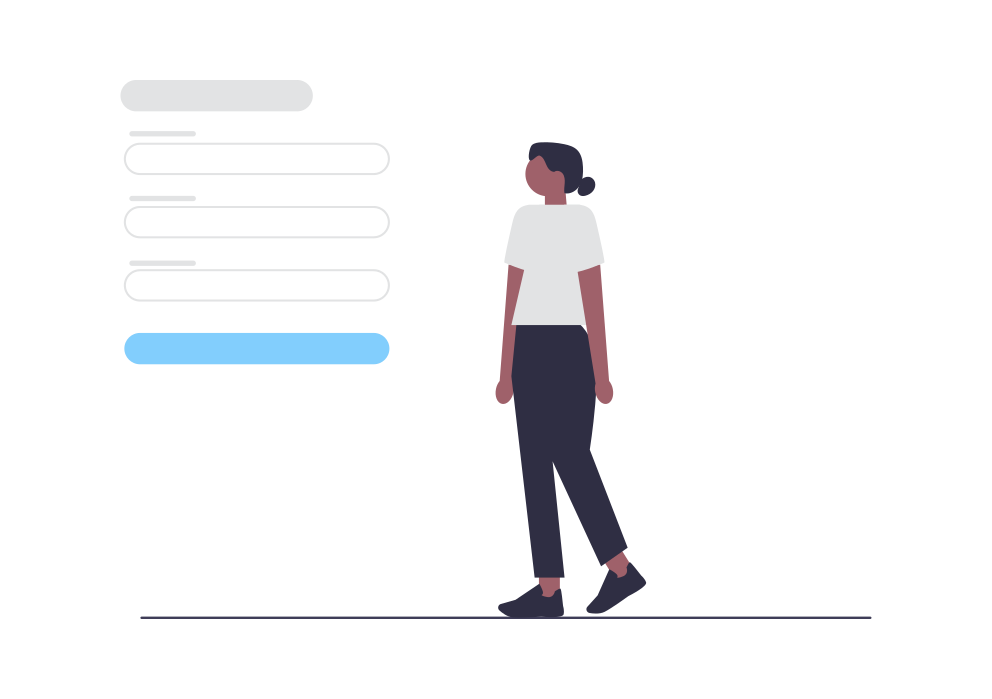
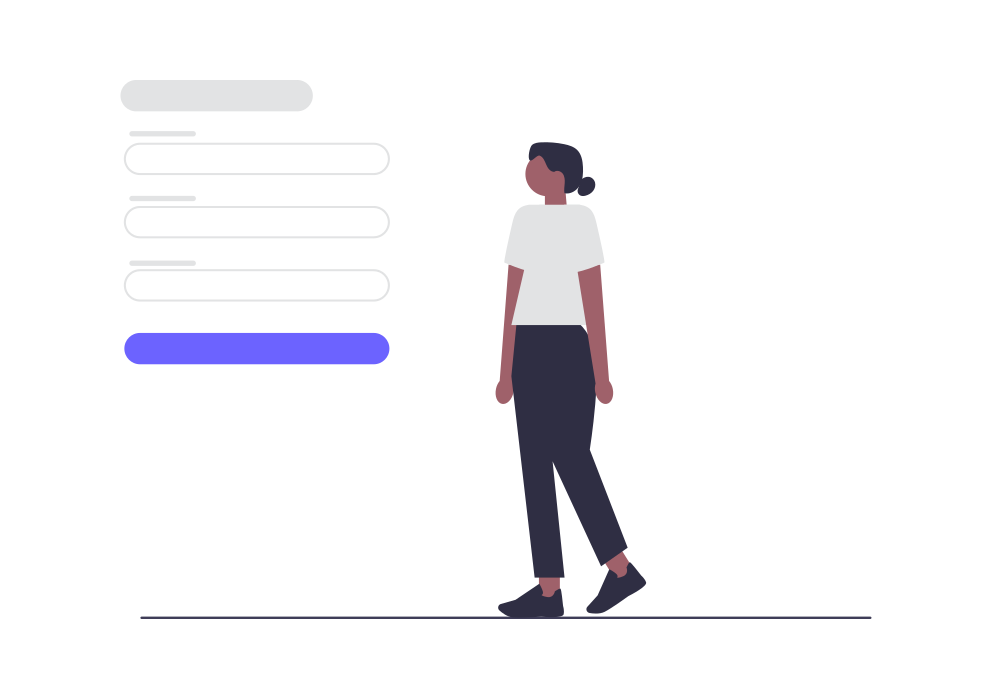
chat app added

Changed region(s): [[0.125, 0.4506, 0.4062, 0.5408]]

diff --git a/templates/Chats/index.html b/templates/Chats/index.html
@@ -1,10 +1,34 @@
-<!-- chat/templates/chat/index.html -->
+{% extends 'Chats/home.html' %}
+
+{% block main-content %}
+    What chat room would you like to enter?<br>
+    <input id="room-name-input" type="text" size="100"><br>
+    <input id="room-name-submit" type="button" value="Enter">
+
+    <script>
+        document.querySelector('#room-name-input').focus();
+        document.querySelector('#room-name-input').onkeyup = function(e) {
+            if (e.keyCode === 13) {  // enter, return
+                document.querySelector('#room-name-submit').click();
+            }
+        };
+
+        document.querySelector('#room-name-submit').onclick = function(e) {
+            var roomName = document.querySelector('#room-name-input').value;
+            window.location.pathname = '/chats/' + roomName + '/';
+        };
+    </script>
+{% endblock main-content %}
+{% comment %} <!-- chat/templates/chat/index.html -->
 <!DOCTYPE html>
 <html>
 <head>
     <meta charset="utf-8"/>
     <title>Chat Rooms</title>
 </head>
+<script>
+    const activeLinkPos = 1;
+</script>
 <body>
     What chat room would you like to enter?<br>
     <input id="room-name-input" type="text" size="100"><br>
@@ -24,4 +48,4 @@
         };
     </script>
 </body>
-</html>
+</html> {% endcomment %}

diff --git a/templates/Exercise/home.html b/templates/Exercise/home.html
@@ -47,12 +47,6 @@
                 </li>
                 <li class="side-menu-links">
                     <a>
-                        <span class="material-symbols-outlined">book</span>
-                        <span class="link-text">Book Session</span>
-                    </a>
-                </li>
-                <li class="side-menu-links">
-                    <a>
                         <span class="material-symbols-outlined">loyalty</span>
                         <span class="link-text">Subscription</span>
                     </a>
@@ -61,6 +55,12 @@
                     <a>
                         <span class="material-symbols-outlined">insights</span>
                         <span class="link-text">Analytics</span>
+                    </a>
+                </li>
+                <li class="side-menu-links dead">
+                    <a>
+                        <span class="material-symbols-outlined">book</span>
+                        <span class="link-text">Book Session</span>
                     </a>
                 </li>
             </ul>

diff --git a/templates/home/home.html b/templates/home/home.html
@@ -47,12 +47,6 @@
                 </li>
                 <li class="side-menu-links">
                     <a>
-                        <span class="material-symbols-outlined">book</span>
-                        <span class="link-text">Book Session</span>
-                    </a>
-                </li>
-                <li class="side-menu-links">
-                    <a>
                         <span class="material-symbols-outlined">loyalty</span>
                         <span class="link-text">Subscription</span>
                     </a>
@@ -61,6 +55,12 @@
                     <a>
                         <span class="material-symbols-outlined">insights</span>
                         <span class="link-text">Analytics</span>
+                    </a>
+                </li>
+                <li class="side-menu-links dead">
+                    <a>
+                        <span class="material-symbols-outlined">book</span>
+                        <span class="link-text">Book Session</span>
                     </a>
                 </li>
             </ul>

diff --git a/static/css/home.css b/static/css/home.css
@@ -177,12 +177,14 @@ div.hero{
     transition: 0.2s ease-in;
 }
 .side-menu-links a:hover{
-    color: var(--blue);
+    /* color: var(--purple); */
+    transform: scale(1.02);
 }
 .side-menu-links a span{
     font-size: var(--prominent-size);
     line-height: 3rem ;
     z-index: 2;
+    color:white;
 
 }
 .side-menu-links a span:nth-child(1){
@@ -201,6 +203,7 @@ div.hero{
     color: var(--thirty);
 }
 .side-menu-links a.active{
+    color:black;
     background-color: var(--light);
     width: 84%;
     border-top-left-radius: 1.5rem;
@@ -241,6 +244,8 @@ div.hero{
 .post-container{
     display: flex;
     flex-direction: column;
+    width: 90%;
+    margin: 1rem;
     gap: 0.5rem;
     box-shadow: 0 0 4px rgba(0,0,0,0.2);
     border-radius: 0.4rem;
@@ -571,4 +576,9 @@ button[type="submit"] {
 
 btn{
     vertical-align: middle;
+}
+
+.dead a span{
+    color : var(--grey);
+    cursor: not-allowed;
 }

diff --git a/templates/home/landing.html b/templates/home/landing.html
@@ -1,5 +1,5 @@
 {% extends 'home/base.html' %}
-
+{% load static %}
 {% block hero %}
     {% comment %} {{well_being}} {% endcomment %}
     {% comment %} <img src="{{MEDIA_URL}}/one.png" alt="this is supposed to be showing" srcset=""> {% endcomment %}
@@ -9,7 +9,7 @@
             <div class="well_being_card">
                 {% for img_url,description in row %}
                     {% if img_url %}
-                        <img src="{{MEDIA_URL}}/{{img_url}}" alt="Well Being">
+                        <img src="{% static img_url %}" alt="Well Being">
                     {% endif %}
                     <div class="description">{{description}}</div>
             

diff --git a/static/css/chatstyle.css b/static/css/chatstyle.css
@@ -1,6 +1,3 @@
-* {
-    box-sizing: border-box;
-}
 
 .self {
     width: fit-content;
@@ -82,22 +79,6 @@ text-area:active {
 .button:hover {
     background-color: rgb(56, 56, 148);
 
-}
-
-html,
-body {
-    height: 100%;
-}
-
-html {
-    display: table;
-    margin: auto;
-}
-
-body {
-    display: table-cell;
-    vertical-align: middle;
-    background: rgb(233, 233, 238);
 }
 
 #remote_video {

diff --git a/static/js/base.js b/static/js/base.js
@@ -11,7 +11,7 @@
 
     const slider = document.querySelector('.slider')
     if(slider){
-        // slider.style.top = `${2 + 4 * activeLinkPos}rem`
+        slider.style.top = `${2 + 4 * activeLinkPos}rem`
     }
     const sideMenuLinks = document.querySelectorAll(".side-menu-links a");
     const loc = ['home','chat','exercise','book','subscribe','analyze'];

diff --git a/static/css/landing.css b/static/css/landing.css
@@ -1,5 +1,8 @@
 @import url('base.css');
 
+div.hero{
+    background-color: white !important;
+}
 .well_being{
     display: flex;
     flex-direction: column;
@@ -23,7 +26,7 @@
 }
 
 .well_being_card img{
-    width: 40%;
+    width: 30%;
 }
 
 .well_being_card .description{

diff --git a/templates/Exercise/base.html b/templates/Exercise/base.html
@@ -19,6 +19,9 @@
     
     <script  src={% static "js/base.js"%} defer></script>
     <script  src={% static "js/Exercise.js"%} defer></script>
+    <script>
+        const activeLinkPos = 2;
+    </script>
     
 </head>
 <span class="what-title"></span>

diff --git a/templates/home/base.html b/templates/home/base.html
@@ -23,7 +23,7 @@
     
     <script defer src={% static "js/base.js"%} defer></script>
     <script>
-        {% comment %} const activeLinkPos = {{link_position}}; {% endcomment %}
+        const activeLinkPos = 0;
     </script>
 </head>
 

diff --git a/static/css/base.css b/static/css/base.css
@@ -11,7 +11,7 @@
 :root{
     --thirty: #292a2f;
     --grey: #484d5d;
-    --blue: #82cefd;
+    --blue: #6C63FF;
     --purple: #002e5b;
     --white: #fdfdfd;
     --light: #f2f5fa;

diff --git a/home/views.py b/home/views.py
@@ -5,11 +5,9 @@ from .models import Post
 def landing(request):
     
     about_well_being = {
-        0 : [["one.png","Learn to recognize the signs of mental distress.Take care of your mind as well as your body"]],
-        1 : [["one.png","Seek help if you or someone you know is struggling. Engage in activities that promote mental well-being, such as meditation, mindfulness, and exercise"]],
-        2 : [["one.png","Mental health issues can affect anyone regardless of age, gender, or background. Mental health problems can impact work, relationships, and overall quality of life"]],
-        3 : [["one.png","Stigma and discrimination surrounding mental health can prevent people from seeking help. Early intervention and treatment can improve outcomes for those struggling with mental health issues"]]
-
+        0 : [["images/one-landing.png","Take control of your physical and mental well-being with our comprehensive health and wellness app. Start your journey to a healthier, happier you with our easy-to-use app."]],
+        1 : [["images/two-landing.png","Stay fit and healthy with our selection of exercises and pose tracking features. Get a personalized fitness analysis to track your progress and achieve your goals."]],
+        2 : [["images/three-landing.png","Talk to physical and mental health experts through video calls and get the guidance you need. Find emotional support through our chat app and connect with strangers who can relate."]],
     }
 
     context = {
@@ -56,7 +54,7 @@ def chat(request):
         "name" : "John Doe",
         "bio" : "This is the bio for me if there's any. Cause I need a one dance. Got a hennessey in my hands" }  
     }
-    return render(request,'home/chat.html',context)
+    return render(request,'Chats/index.html',context)
 
 
 def confessions(request):
